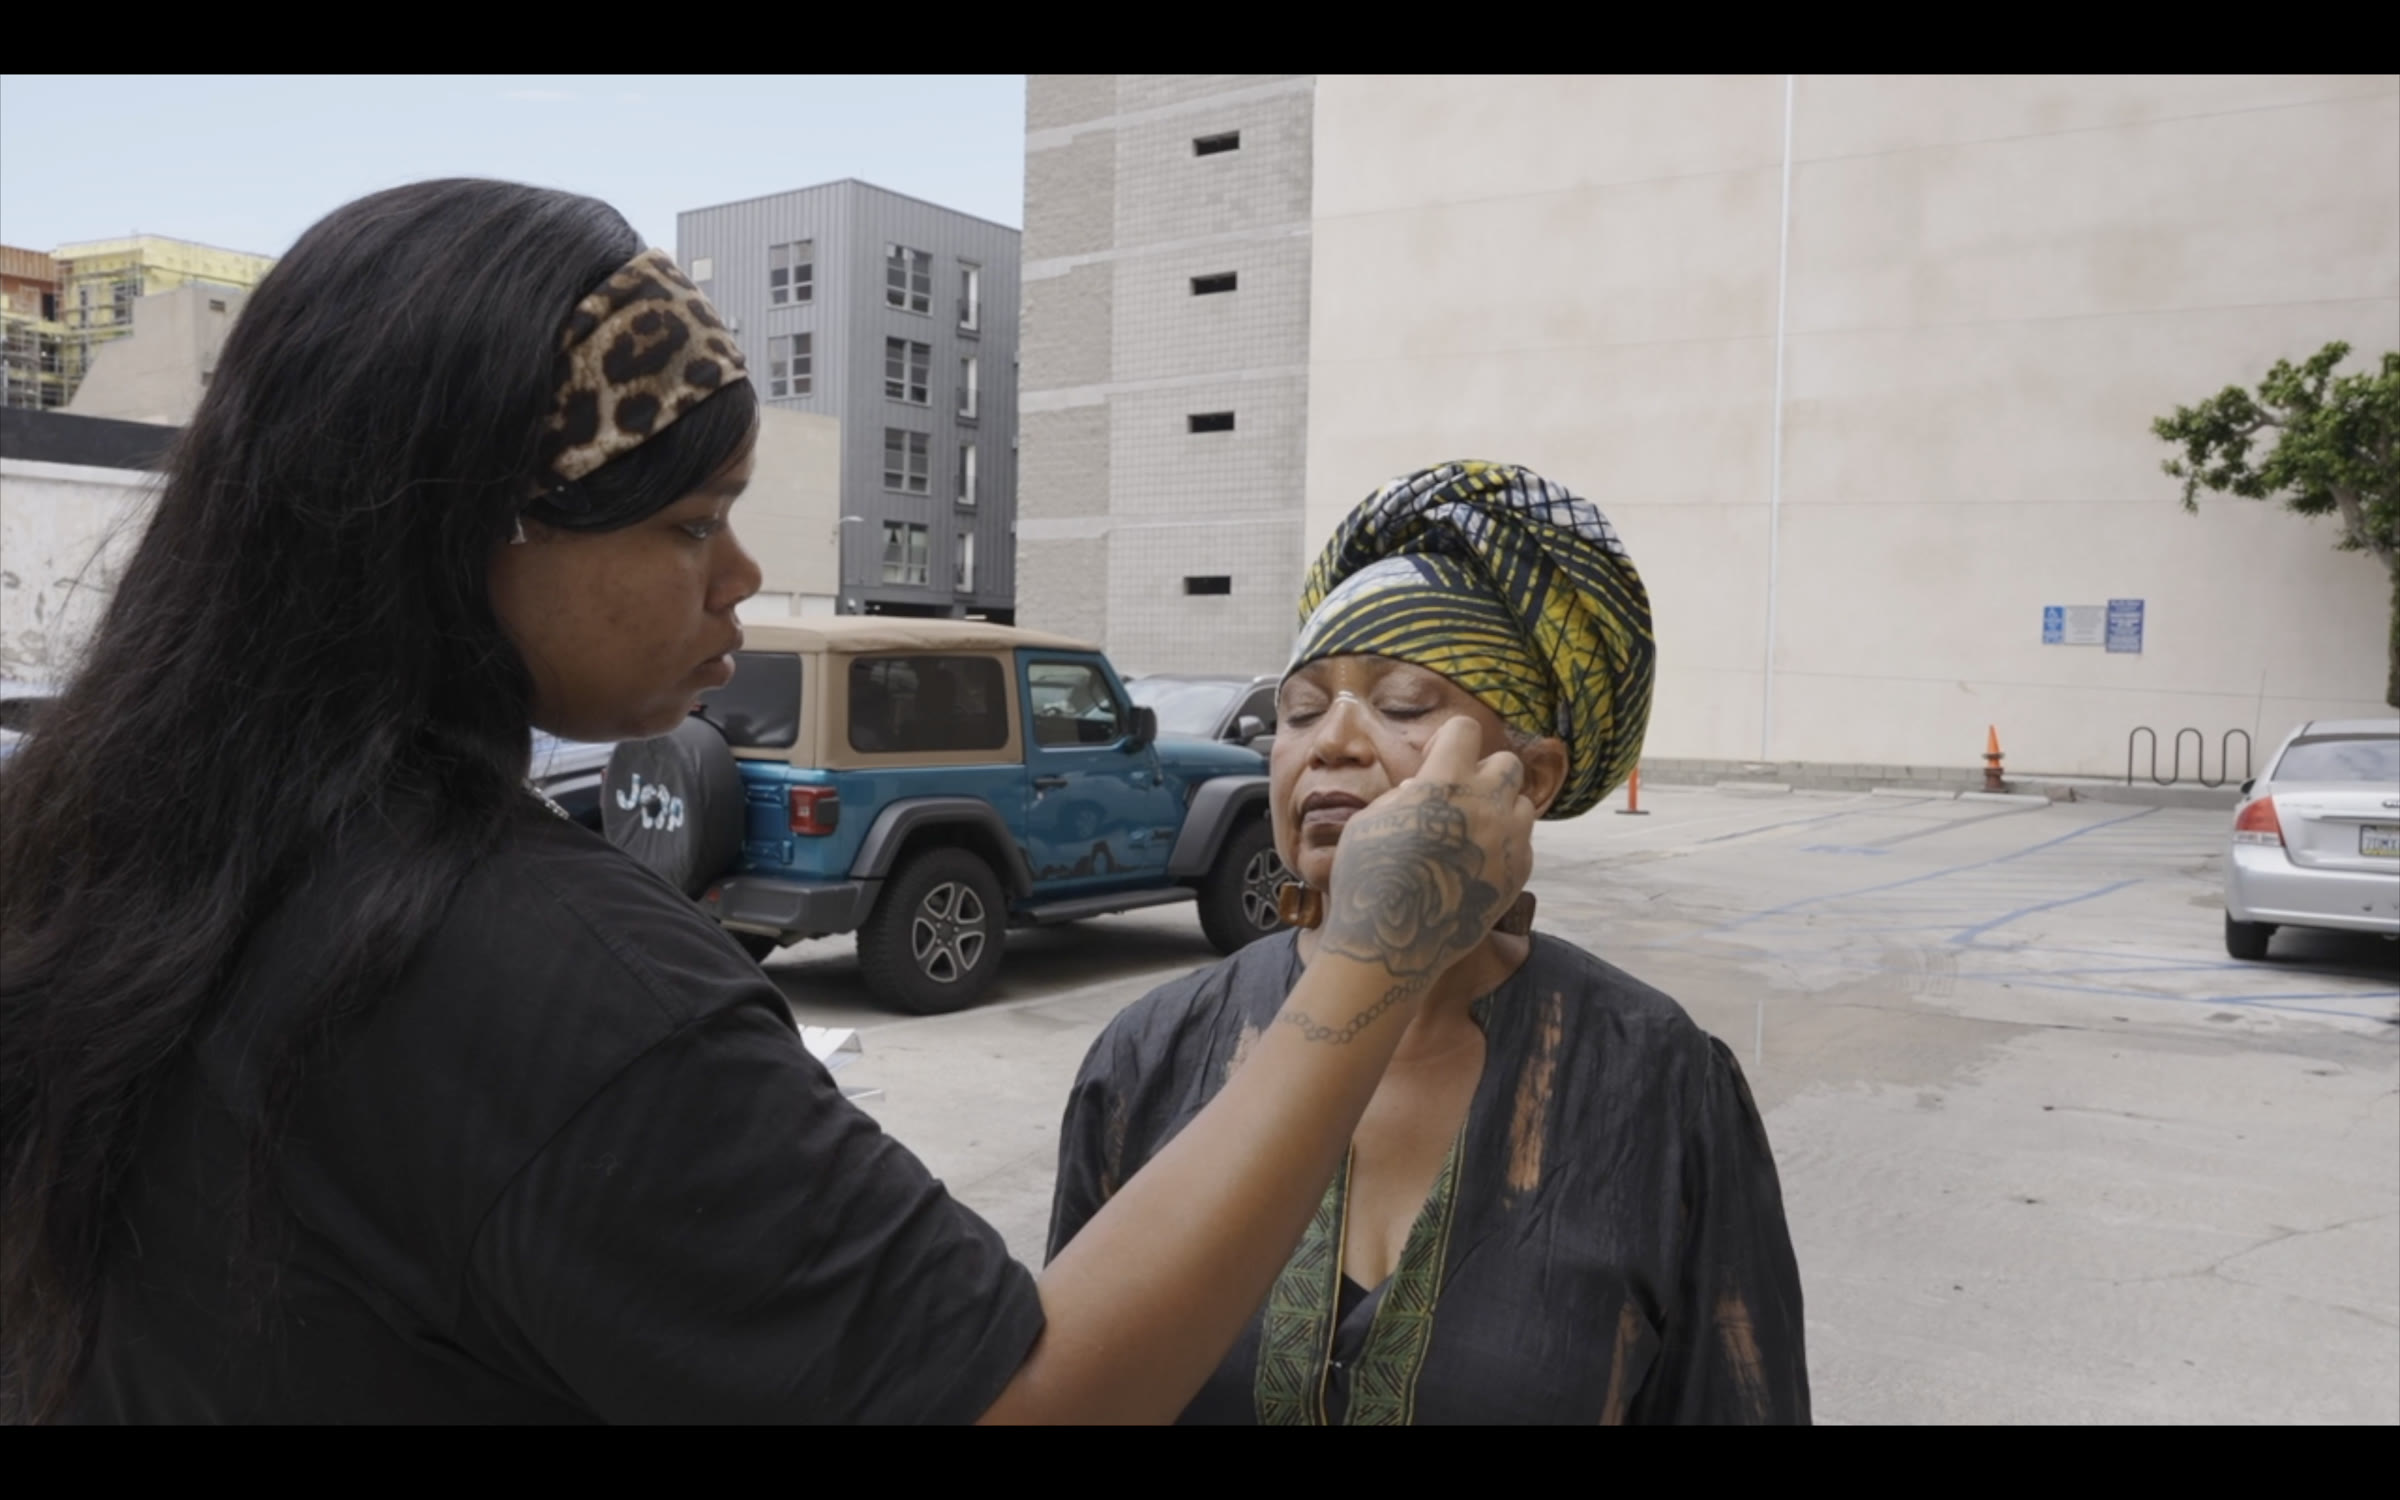
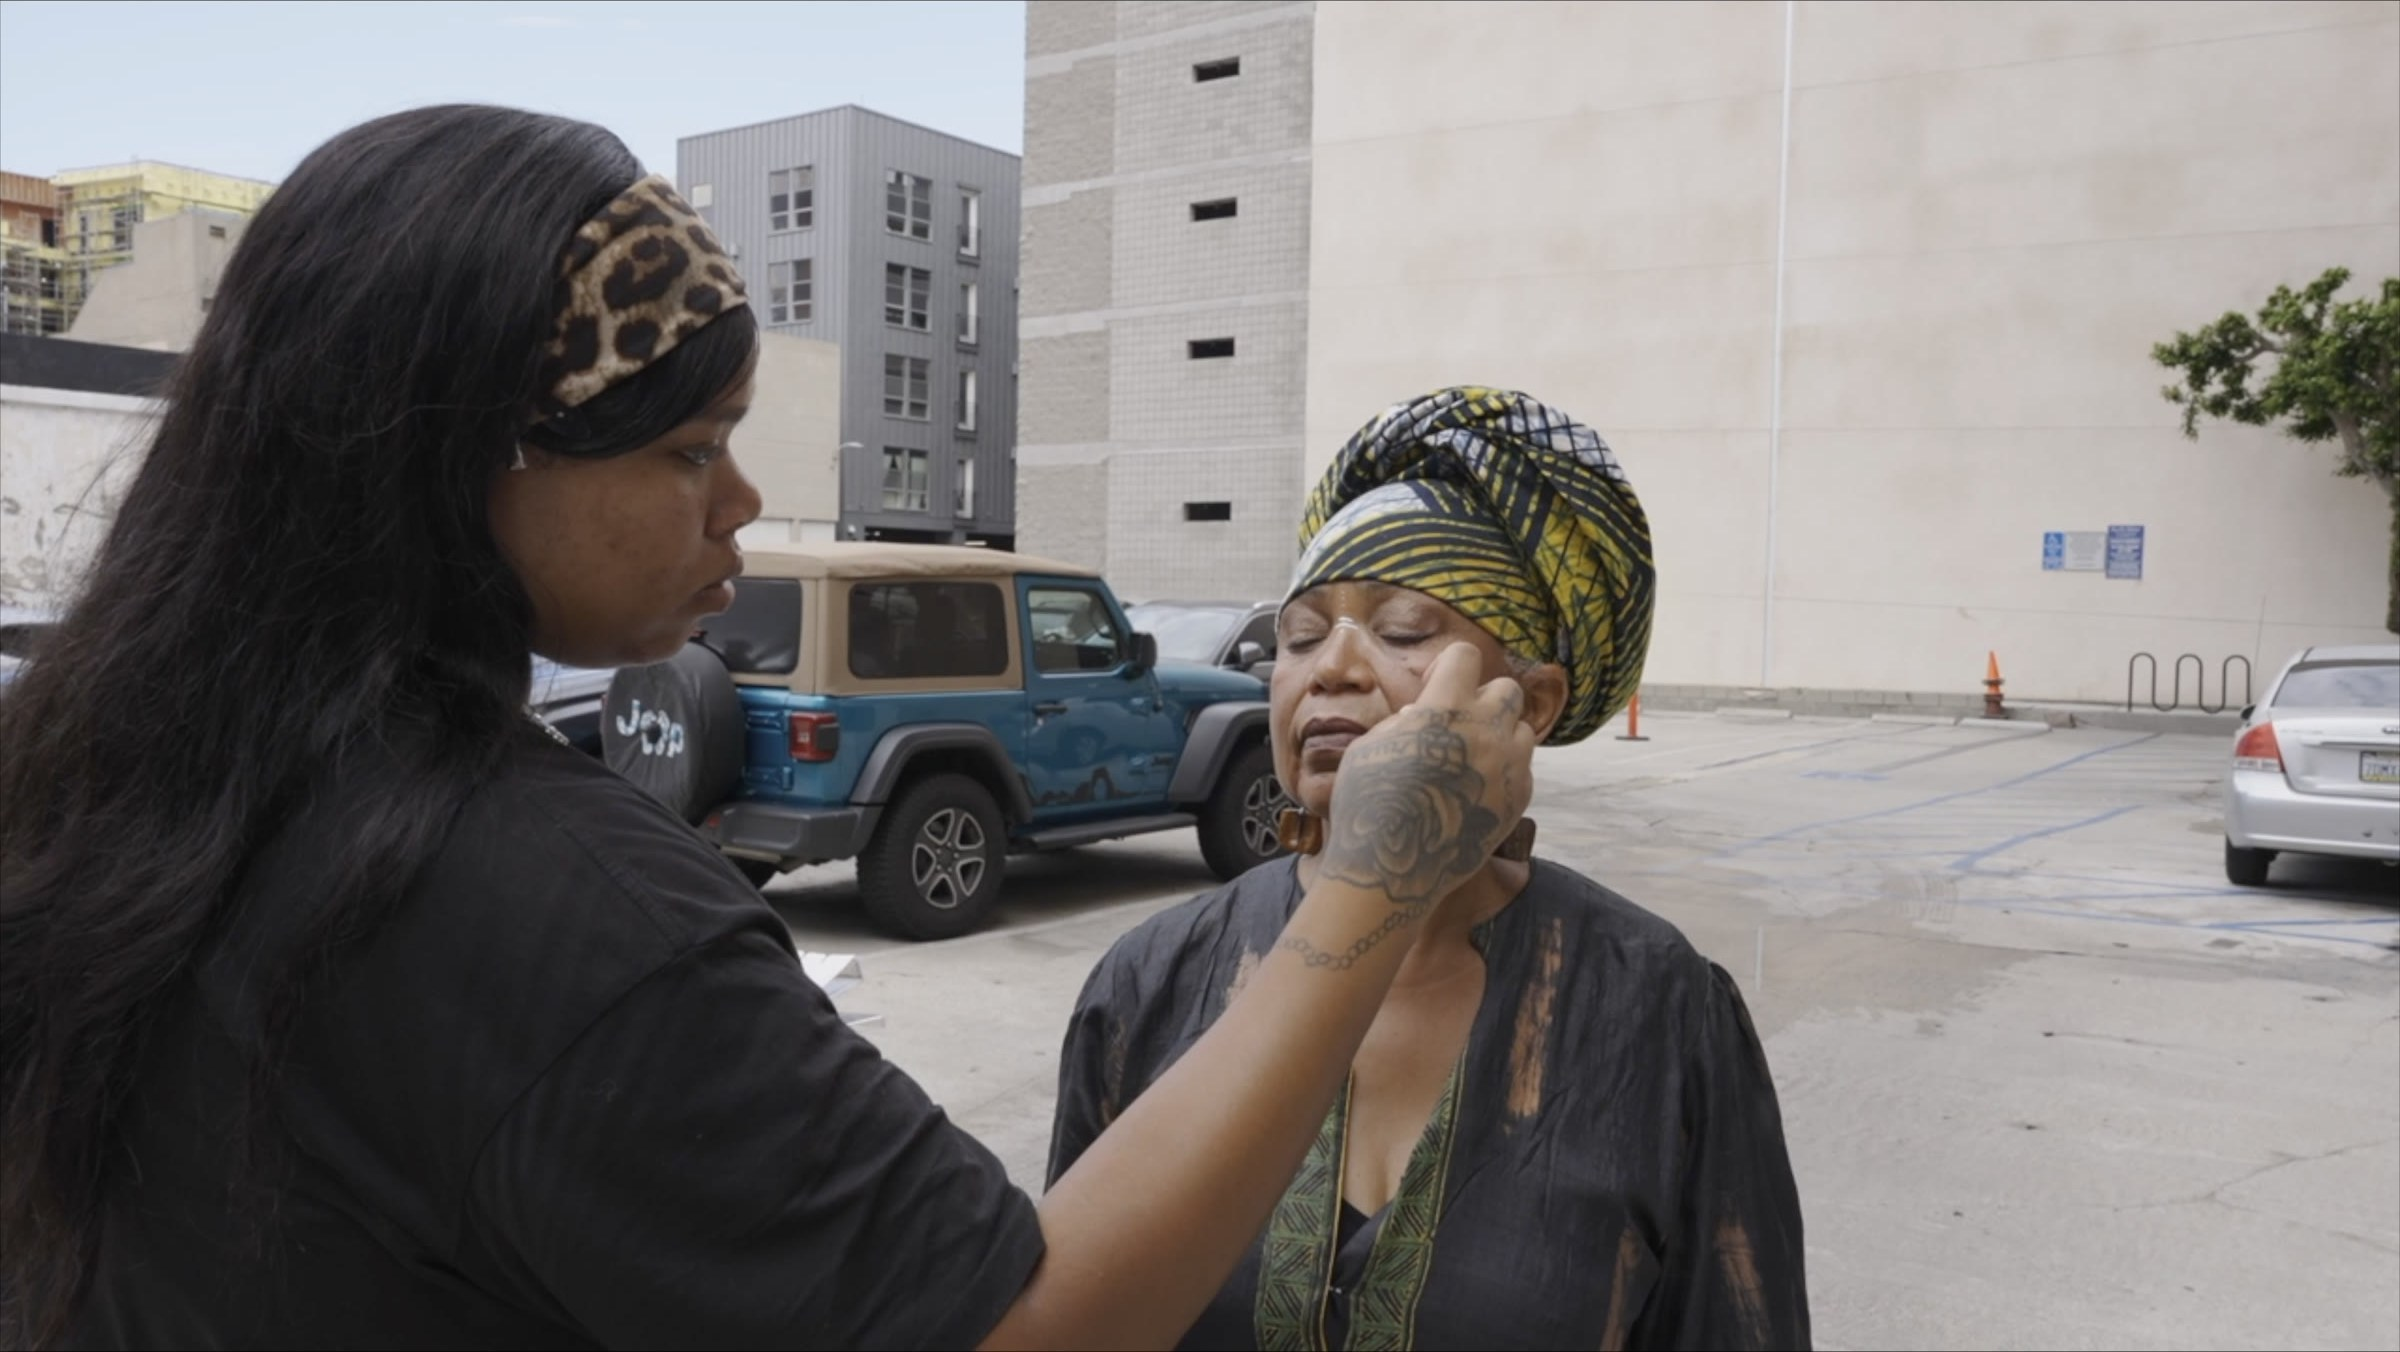
Centre the Colburn case study; add a Village Treasures production mosaic
Colburn moves to the same centred treatment as the homepage feature. The
side-by-side version put a small player next to a half-width text column
and left most of the section empty; the testimonial is the entire point
of that block, so it now runs full width with the copy centred above it.
The client mark sits above the heading at roughly double its previous
size.

Village Treasures gains a production mosaic built from the four stills
just added to the repo, alongside the makeup shot. Tiles are set by
aspect ratio and crop to fill, so the grid holds its shape regardless of
source dimensions, and it steps down to two columns and then one rather
than reflowing unpredictably. Ordering runs set, then crew, then red
carpet, which is the arc the section copy describes.

Two image fixes:

The makeup still carried 74 rows of letterbox at top and bottom. Bars
detected by scanning for near-black rows rather than by eye, then
cropped: 2400x1500 to 2400x1352.

The PAFF laurel was white art baked onto a solid black rectangle, which
read as a black box floating on the page background. Alpha is now derived
from luminance so the laurel sits directly on the ground with no plate
behind it. Saved as a new file rather than overwriting the original,
since the black-backed version may still be wanted for light contexts.

All seven pages clean at 1440 and 390; every image still under 500KB.

Claude-Session: https://claude.ai/code/session_01BjTAuEzLGHyt3AgNMFsBFD

diff --git a/education.html b/education.html
@@ -109,31 +109,23 @@
     </div>
   </section>
 
-  <!-- ===================== COLBURN SCHOOL ===================== -->
+  <!-- ===================== COLBURN SCHOOL =====================
+       Centred like the homepage feature. The side-by-side version left a
+       large empty column beside a small player; the testimonial is the
+       whole point of this section, so it runs full width. -->
   <section class="section case" style="background:var(--ink-raised)">
-    <div class="shell">
-      <div class="case__head reveal">
-        <div>
-          <p class="eyebrow" style="margin-bottom:0.6rem">In the client's words</p>
-          <h2 style="font-size:var(--step-3);max-width:22ch">Colburn School on working with us</h2>
-        </div>
-        <img class="case__mark" src="/public/trusted-by-marks/colburn-white.png" alt="" loading="lazy">
-      </div>
+    <div class="shell feature">
+      <img class="case__mark case__mark--lg reveal" src="/public/trusted-by-marks/colburn-white.png" alt="Colburn School" loading="lazy" style="margin-bottom:1.6rem">
+      <p class="eyebrow reveal">In the client's words</p>
+      <h2 class="reveal" style="font-size:var(--step-3)">Colburn School on working with us</h2>
+      <p class="lede reveal" data-delay="1">One of the country's leading conservatories, on camera about what the production process was actually like — not a review of the footage, but an account of the working relationship behind it.</p>
+      <p class="reveal" data-delay="1">Institutions rarely put someone in front of a lens to vouch for a vendor. When they do it is worth more than a case study, because the person speaking has their own reputation attached to what they say.</p>
 
-      <div class="split split--flip" style="margin-top:1.5rem;align-items:start">
-        <div class="split__text reveal">
-          <p>One of the country's leading conservatories, talking on camera about what the production process was actually like — not a review of the footage, but an account of the working relationship behind it.</p>
-          <p>Institutions rarely put someone in front of a lens to vouch for a vendor. When they do, it's worth more than a case study, because the person speaking has their own reputation attached to what they're saying.</p>
-          <p class="lede" style="margin-top:1.8rem">If you're weighing whether your team has the appetite for a shoot week, this is the two minutes to watch.</p>
-        </div>
-        <div class="split__media reveal" data-delay="1">
-          <div class="player" data-embed="https://www.youtube-nocookie.com/embed/MqUMCehhKiA" data-title="Colburn School — on video production with We Engage Agency" role="button" tabindex="0" aria-label="Play: Colburn School on video production with We Engage Agency">
-            <img class="player__poster" src="/public/thumbnails-posters/colburn-testimonial-thumbnail.jpg" alt="" loading="lazy">
-            <span class="player__play" aria-hidden="true">▶</span>
-          </div>
-          <p class="caption">Colburn School — on video production with We Engage Agency</p>
-        </div>
+      <div class="player player--wide reveal" data-embed="https://www.youtube-nocookie.com/embed/MqUMCehhKiA" data-title="Colburn School — on video production with We Engage Agency" role="button" tabindex="0" aria-label="Play: Colburn School on video production with We Engage Agency">
+        <img class="player__poster" src="/public/thumbnails-posters/colburn-testimonial-thumbnail.jpg" alt="" loading="lazy">
+        <span class="player__play" aria-hidden="true">▶</span>
       </div>
+      <p class="caption reveal">If you are weighing whether your team has the appetite for a shoot week, this is the two minutes to watch.</p>
     </div>
   </section>
 

diff --git a/village-treasures.html b/village-treasures.html
@@ -67,14 +67,41 @@
           <p>Long Beach City Council screened scenes from the film in chambers and honored Max in person, with formal recognition from Mayor Rex Richardson and Congressman Robert Garcia.</p>
           <p>A film about a man who was never the story becoming the reason his city finally said his name out loud.</p>
           <div class="laurels">
-            <img src="/public/thumbnails-posters/laurels-paff2024-white-on-black.png" alt="Official Selection — Pan African Film Festival 2024" loading="lazy">
+            <img src="/public/thumbnails-posters/laurels-paff2024-transparent.png" alt="Official Selection — Pan African Film Festival 2024" loading="lazy">
           </div>
         </div>
         <div class="split__media reveal" data-delay="1">
-          <div class="frame frame--offset">
-            <img src="/public/thumbnails-posters/village-treasures-bts-makeup.jpg" alt="Behind the scenes on Village Treasures" loading="lazy">
+          <div class="poster">
+            <img src="/public/thumbnails-posters/village-treasures-poster.jpg" alt="Village Treasures — film poster">
           </div>
         </div>
+      </div>
+    </div>
+  </section>
+
+  <!-- ========================= PRODUCTION MOSAIC ========================= -->
+  <section class="section" style="background:var(--ink-raised)">
+    <div class="shell">
+      <p class="eyebrow eyebrow--accent2 reveal">On set, and after</p>
+      <h2 class="reveal" style="font-size:var(--step-3);max-width:20ch">The making of it, and what it turned into.</h2>
+      <p class="lede reveal" data-delay="1" style="max-width:56ch">A corner shop, a crew, a festival red carpet. The distance between the first two and the third is the whole story.</p>
+
+      <div class="mosaic">
+        <figure class="m-tall reveal">
+          <img src="/public/thumbnails-posters/Village-treasures-production-stills1.jpeg" alt="A performer in costume under stage light during the Village Treasures shoot" loading="lazy">
+        </figure>
+        <figure class="m-wide reveal" data-delay="1">
+          <img src="/public/thumbnails-posters/village-treasures-bts-makeup.jpg" alt="Makeup being applied on location during production" loading="lazy">
+        </figure>
+        <figure class="m-half reveal" data-delay="1">
+          <img src="/public/thumbnails-posters/Village-treasures-production-stills2.jpeg" alt="The Village Treasures team with their festival awards" loading="lazy">
+        </figure>
+        <figure class="m-half reveal" data-delay="2">
+          <img src="/public/thumbnails-posters/Village-treasures-production-stills3.jpeg" alt="Cast and crew at the Pan African Film Festival" loading="lazy">
+        </figure>
+        <figure class="m-band reveal" data-delay="2">
+          <img src="/public/thumbnails-posters/Village-treasures-production-stills4.jpeg" alt="A scene from Village Treasures, filmed on the street in Long Beach" loading="lazy">
+        </figure>
       </div>
     </div>
   </section>

diff --git a/css/site.css b/css/site.css
@@ -587,3 +587,44 @@ img, video { max-width: 100%; display: block; }
 /* A word in a stat slot needs a smaller size than a numeral or it crowds
    the row; the label beneath still carries the meaning. */
 .stat__num--word { font-size: var(--step-1); letter-spacing: 0.01em; }
+
+/* =========================================================================
+   Production mosaic
+   An asymmetric tile grid for stills of mixed aspect ratio. Each tile is
+   given a ratio and crops to fill, so the grid stays predictable no matter
+   what shape the source images are.
+   ========================================================================= */
+.mosaic {
+  display: grid;
+  grid-template-columns: repeat(6, 1fr);
+  gap: clamp(0.6rem, 1.4vw, 1rem);
+  margin-top: clamp(2.5rem, 5vw, 3.5rem);
+}
+.mosaic figure { margin: 0; position: relative; overflow: hidden; background: var(--ink-raised); }
+.mosaic img {
+  width: 100%; height: 100%; object-fit: cover;
+  transition: transform 0.7s var(--ease), filter 0.5s var(--ease);
+  filter: saturate(0.94);
+}
+.mosaic figure:hover img { transform: scale(1.035); filter: saturate(1.04); }
+
+.m-tall { grid-column: span 2; grid-row: span 2; aspect-ratio: 3 / 4; }
+.m-wide { grid-column: span 4; aspect-ratio: 16 / 9; }
+.m-half { grid-column: span 2; aspect-ratio: 4 / 3; }
+.m-band { grid-column: span 6; aspect-ratio: 21 / 8; }
+
+@media (max-width: 900px) {
+  .mosaic { grid-template-columns: repeat(2, 1fr); }
+  .m-tall { grid-column: span 1; grid-row: span 2; }
+  .m-wide, .m-band { grid-column: span 2; }
+  .m-half { grid-column: span 1; }
+}
+@media (max-width: 560px) {
+  .mosaic { grid-template-columns: 1fr; }
+  .m-tall, .m-wide, .m-half, .m-band { grid-column: span 1; grid-row: auto; }
+  .m-tall { aspect-ratio: 4 / 5; }
+  .m-band { aspect-ratio: 16 / 9; }
+}
+
+/* Larger client mark for a centred case study head. */
+.case__mark--lg { max-height: 72px; max-width: 260px; opacity: 0.8; margin-inline: auto; }
